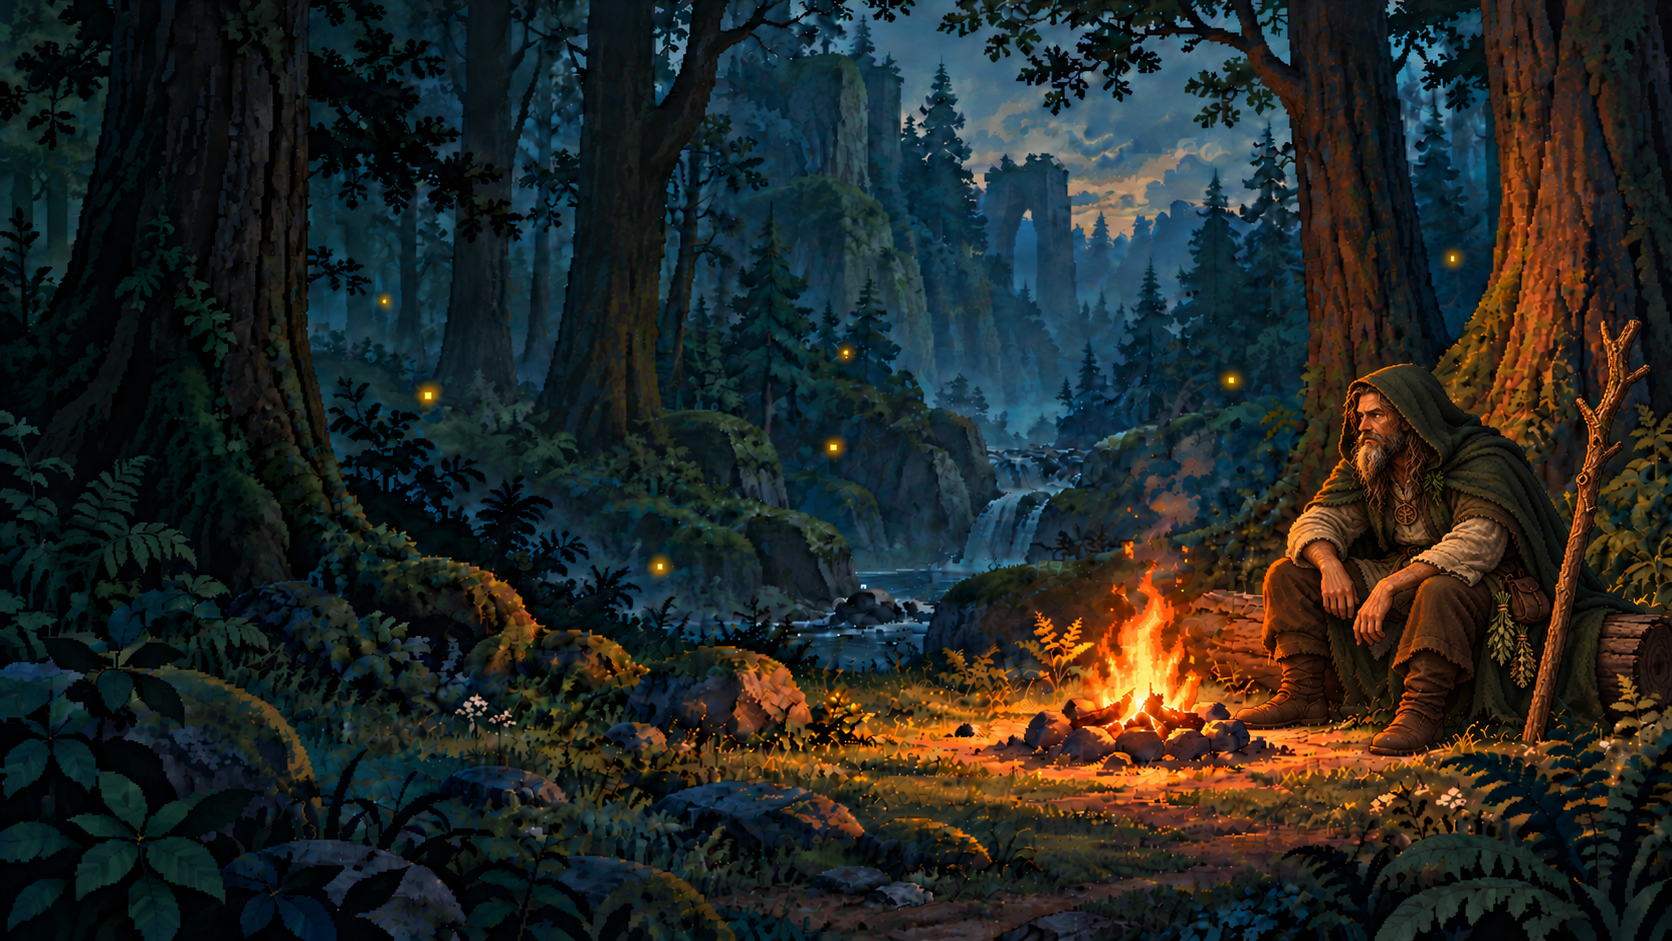
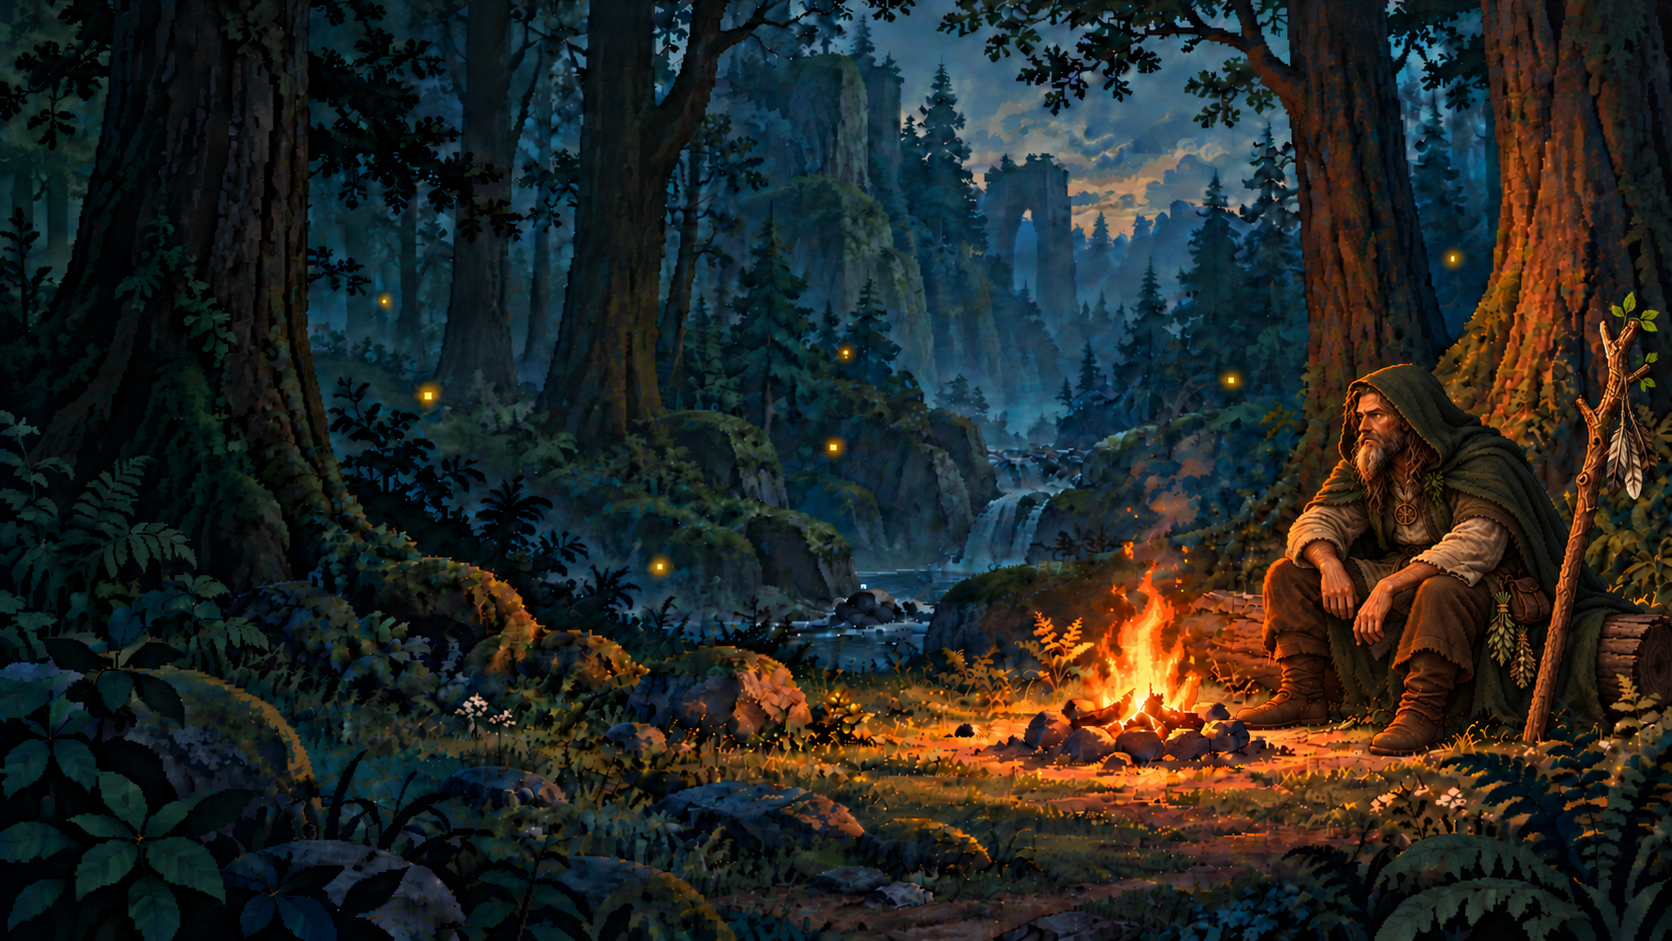
Add tied feathers and living leaves to druid staff

diff --git a/docs/concepts/README.md b/docs/concepts/README.md
@@ -6,6 +6,8 @@
 
 ![Крепкий друид-мужчина 45+ в походной экипировке у костра](menu-forest-v2.png)
 
+Пользователь согласовал фигуру самого друида. Последняя правка касается только посоха: добавлены три небольших пера на шнурке и несколько живых листьев, растущих из верхней развилки. Фигуру, одежду, лицо и посадку сохраняем в следующих вариантах.
+
 Пользователю понравились общая композиция и визуальное направление первого изображения. Актуальный герой уточнён по пяти присланным пользователем референсам: зрелый бородатый мужчина между лесным отшельником, травником и природным магом. Объединены длинные волосы с сединой, естественная сужающаяся борода, шерстяной капюшон и простая тканевая одежда. Плащ и штаны имеют более ровную ткань со складками. Сохранены тяжёлые сапоги, связки трав на поясе и небольшой древесный медальон. Посох — естественно искривлённая сосновая ветка с корой, сучками и небольшой развилкой. Лес, костёр и место для меню сохранены как основа композиции.
 
 Показ генерации в чате у пользователя оказался недоступен. По его просьбе использовать другой способ передачи актуальное изображение сохранено здесь. Для следующих правок обновляем этот же файл и ссылку вместо добавления новых вариантов в папку. История изменений сохраняется в Git.
@@ -18,6 +20,7 @@
 - Герой должен читаться как друид: больше ткани, меньше кожаных ремней, травы и коренья на поясе.
 - Капюшон надет на голову. Плащ и штаны — ровная ткань с читаемыми складками, без точек, колючек и растительного покрытия.
 - Посох из кривой сосновой ветки: неровный ствол, кора, сучки и небольшие ответвления. Увеличение толщины не было целью запроса; круглый резной завиток заменён природной развилкой.
+- На посох привязаны несколько перьев, а у навершия прямо из дерева растёт несколько листьев.
 - Будущие кнопки «Играть» и другие пункты меню располагаются слева от костра.
 - Образ героя остаётся магическим друидом без превращений в животных.
 
